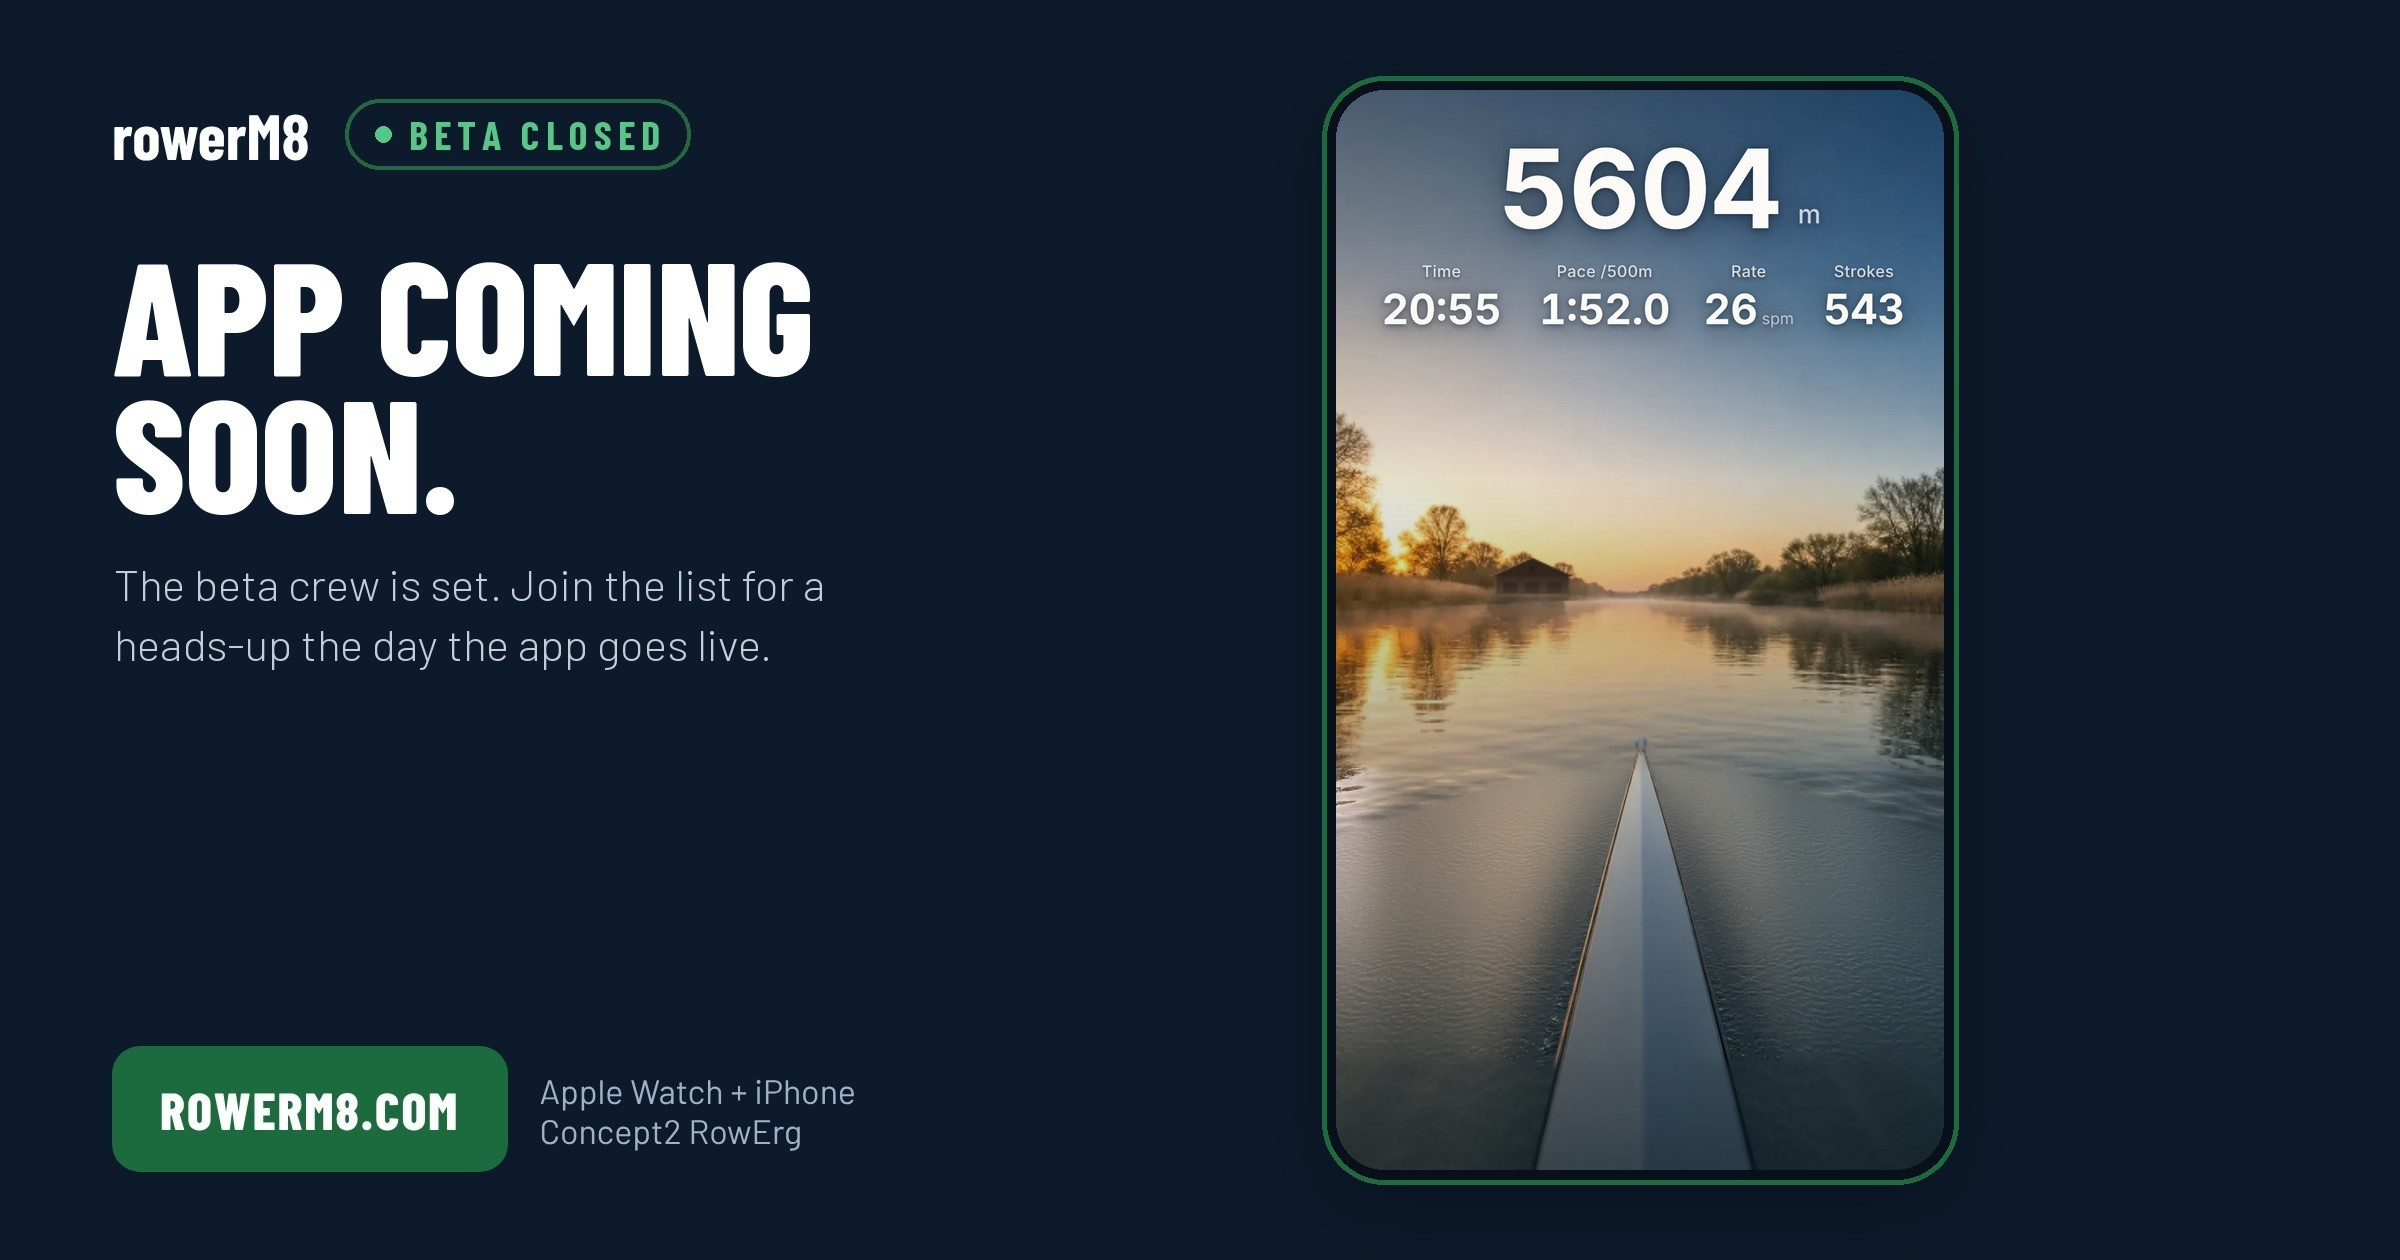
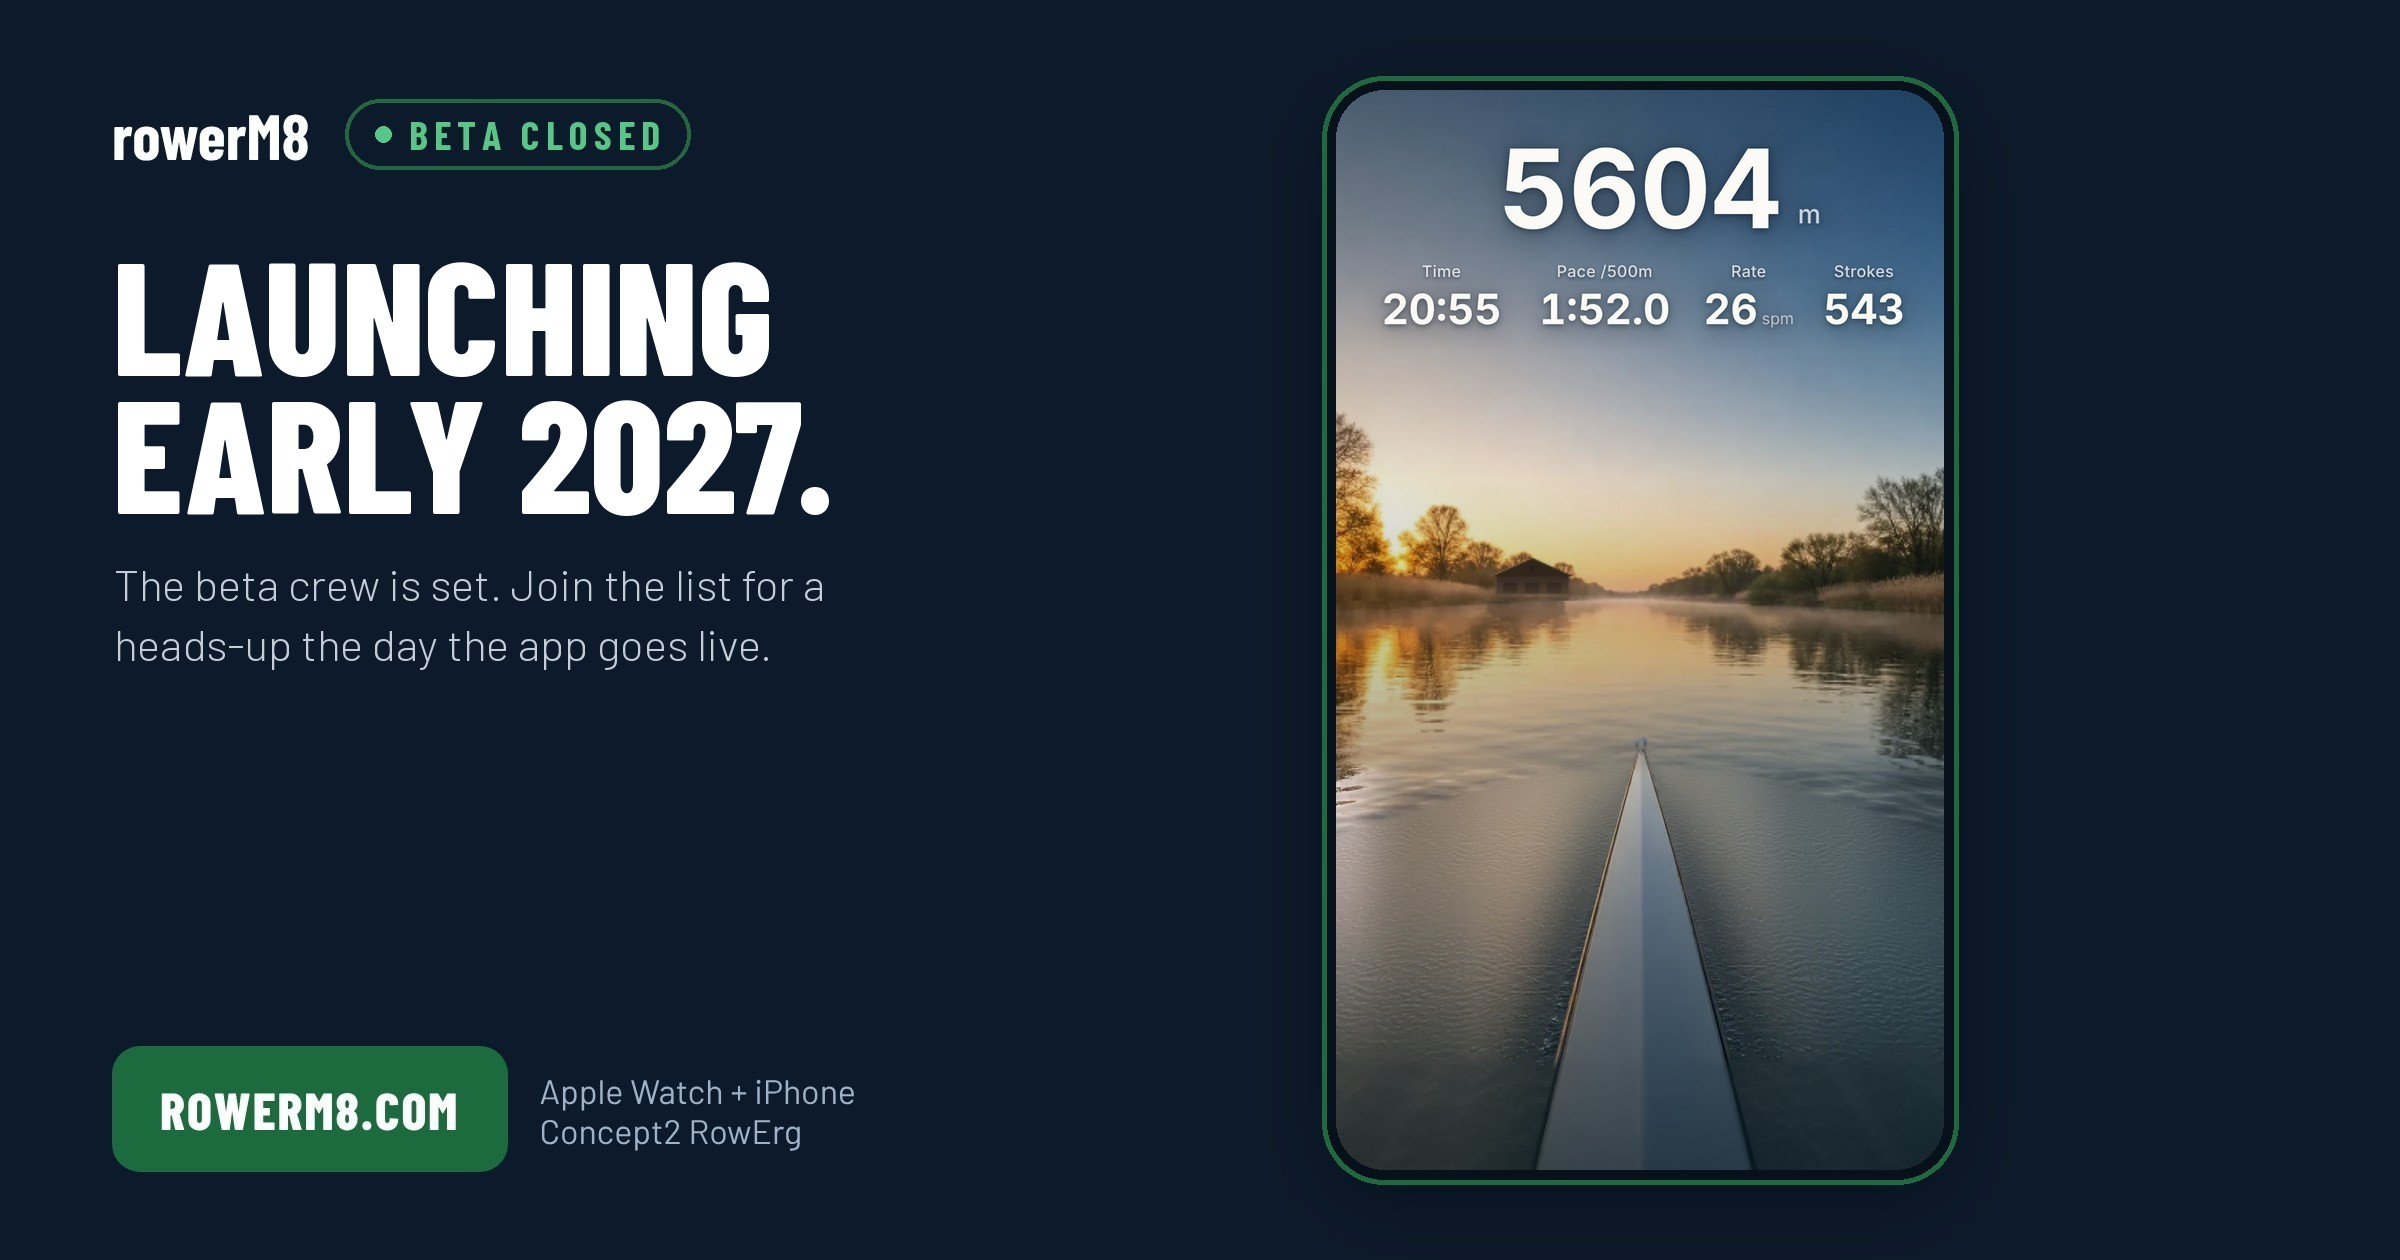
rowerM8 section: launching early 2027
Claude-Session: https://claude.ai/code/session_01JteuxTvMuFr1Y2M5WN7FcR

Changed region(s): [[0.0312, 0.1857, 0.3438, 0.4333]]

diff --git a/index.html b/index.html
@@ -25,10 +25,10 @@ a{color:#111}a:hover{color:#B3261E}
 </nav></header>
 
 <section id="rowerm8" class="ad rm8" aria-label="rowerM8" style="background:#0C1A2C;color:#fff">
-<a class="rm8-banner" href="https://rowerm8.com" target="_blank" rel="noopener"><img src="rowerm8-banner.jpg?v=3" width="2400" height="1260" alt="rowerM8, beta closed. App coming soon. The beta crew is set. Join the list for a heads-up the day the app goes live. rowerm8.com. Apple Watch and iPhone, Concept2 RowErg. The rowerM8 rowing screen: 5604 meters in 20:55 at a 1:52.0 pace, 26 strokes a minute, 543 strokes, rowing toward a boathouse at sunrise."></a>
+<a class="rm8-banner" href="https://rowerm8.com" target="_blank" rel="noopener"><img src="rowerm8-banner.jpg?v=4" width="2400" height="1260" alt="rowerM8, beta closed. Launching early 2027. The beta crew is set. Join the list for a heads-up the day the app goes live. rowerm8.com. Apple Watch and iPhone, Concept2 RowErg. The rowerM8 rowing screen: 5604 meters in 20:55 at a 1:52.0 pace, 26 strokes a minute, 543 strokes, rowing toward a boathouse at sunrise."></a>
 <div class="c rm8-text" style="display:flex;flex-wrap:wrap;gap:48px 56px;align-items:center">
 <div style="flex:999 1 440px;min-width:0">
-<p class="bc" style="margin:0 0 18px;font-weight:700;font-size:20px;letter-spacing:.08em;color:#6FCB95;text-transform:none">rowerM8 &middot; BETA CLOSED &middot; APP COMING SOON</p>
+<p class="bc" style="margin:0 0 18px;font-weight:700;font-size:20px;letter-spacing:.08em;color:#6FCB95;text-transform:none">rowerM8 &middot; BETA CLOSED &middot; LAUNCHING EARLY 2027</p>
 <h2 class="bc" style="margin:0;font-weight:800;font-size:clamp(52px,6.4vw,96px);line-height:.88">Row with your Apple Watch.</h2>
 <p style="margin:24px 0 0;font-size:22px;line-height:1.45;color:#D3DAE4;max-width:560px">Your watch counts every stroke and the app turns it into real meters, pace and splits. Race your last row, race a pace boat, track your weeks.</p>
 <p style="margin:18px 0 0;font-size:22px;line-height:1.45;max-width:560px">The beta crew is set. Join the list for a heads-up the day the app goes live.</p>
